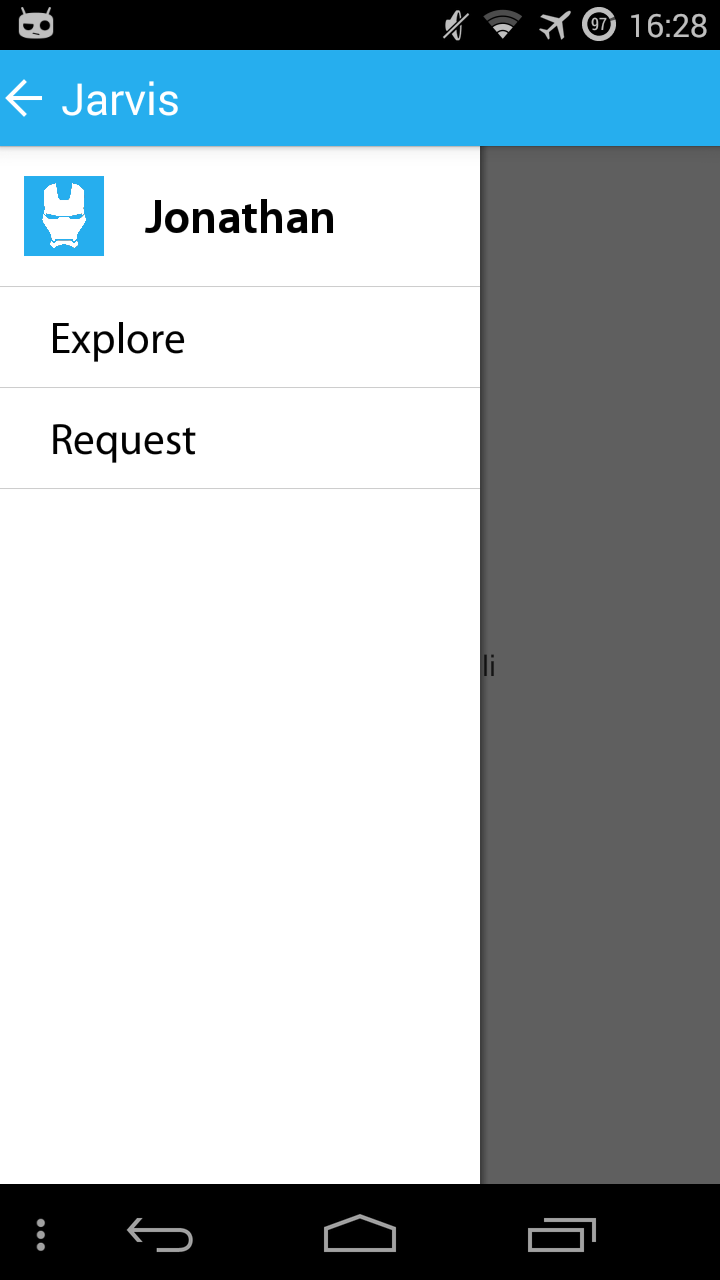
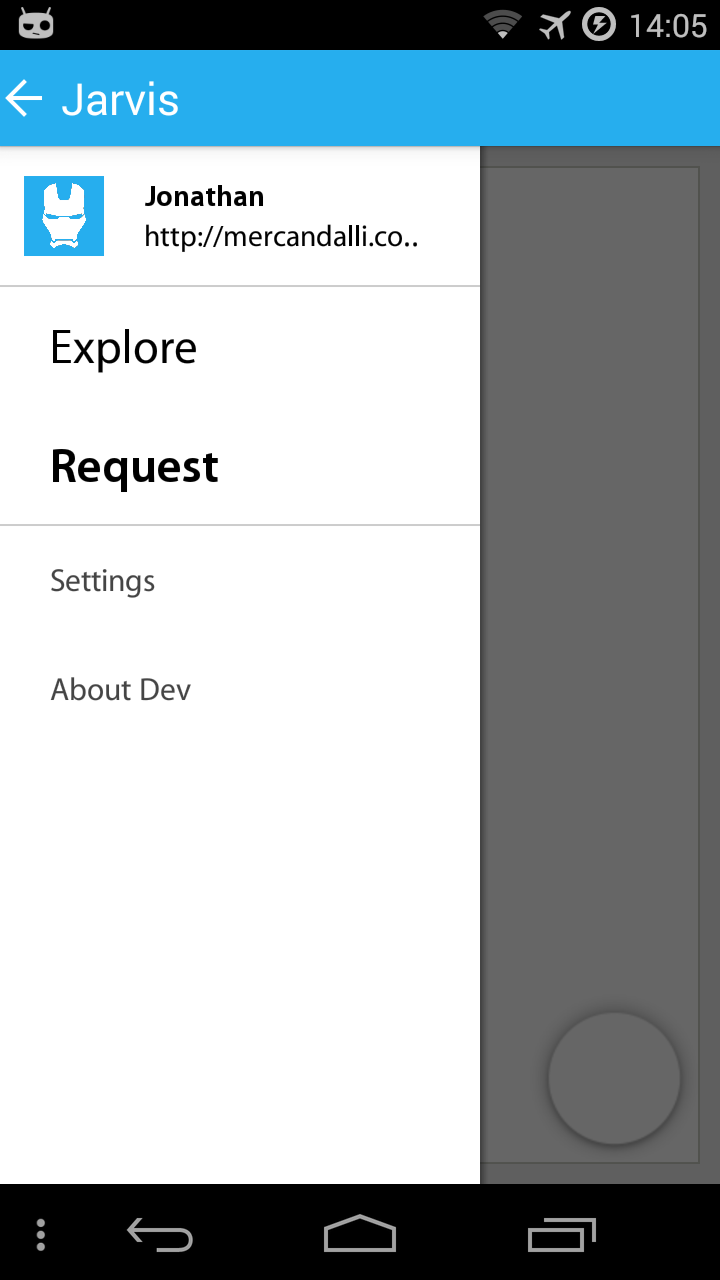
Update Drawer (sliding menu)

diff --git a/src/com/mercandalli/jarvis/ApplicationDrawer.java b/src/com/mercandalli/jarvis/ApplicationDrawer.java
@@ -29,9 +29,12 @@ import com.mercandalli.jarvis.navdrawer.NavDrawerListAdapter;
 
 public class ApplicationDrawer extends Application {	
 	
-	public static final int TYPE_IC 		= 0;
+	public static final int TYPE_PROFIL		= 0;
 	public static final int TYPE_NORMAL	 	= 1;
 	public static final int TYPE_SECTION	= 2;
+	public static final int TYPE_SETTING	= 3;
+	
+	public static final int[] noSelectable = new int[] {TYPE_PROFIL, TYPE_SECTION};
     
     Fragment fragment;
 
@@ -50,10 +53,15 @@ public class ApplicationDrawer extends Application {
         mDrawerLayout.setDrawerShadow(R.drawable.drawer_shadow, GravityCompat.START);
         navDrawerItems = new NavDrawerItemListe();
         
+        // Tab 0
+        navDrawerItems.add(
+        		new NavDrawerItem( config.getUserUsername(), config.getUrlServer(), R.drawable.ic_launcher, TYPE_PROFIL)
+        		);
+        
         // Tab 1
         navDrawerItems.add(
-        		new NavDrawerItem( config.getUserUsername(), R.drawable.ic_launcher, TYPE_IC)
-        		);        
+        		new NavDrawerItem( "", R.drawable.ic_launcher, TYPE_SECTION)
+        		);
      
         // Tab 2
         navDrawerItems.add(
@@ -79,10 +87,23 @@ public class ApplicationDrawer extends Application {
 			        }, TYPE_NORMAL)
         		);
         
+        // Tab 4
+        navDrawerItems.add(
+        		new NavDrawerItem( "", R.drawable.ic_launcher, TYPE_SECTION)
+        		);
+        
+        // Tab 5
+        navDrawerItems.add(
+        		new NavDrawerItem( "Settings", TYPE_SETTING)
+        		);
+        
+        // Tab 6
+        navDrawerItems.add(
+        		new NavDrawerItem( "About Dev", TYPE_SETTING)
+        		);
+        
         // Initial Fragment
-    	fragment = new FileManagerFragment(ApplicationDrawer.this);
-        FragmentManager fragmentManager = getFragmentManager();
-        fragmentManager.beginTransaction().replace(R.id.content_frame, fragment).commit();
+        selectItem(2);
         
         getActionBar().setDisplayHomeAsUpEnabled(true);
         getActionBar().setIcon(R.drawable.transparent);
@@ -105,12 +126,23 @@ public class ApplicationDrawer extends Application {
         mDrawerLayout.setDrawerListener(mDrawerToggle);
 	}
 	
-	private void selectItem(int position) {    	
-    	for(NavDrawerItem nav : navDrawerItems.getListe())
-    		if(navDrawerItems.get(position).equals(nav))
+	private void selectItem(int position) {		
+		for(NavDrawerItem nav : navDrawerItems.getListe())
+			if(navDrawerItems.get(position).equals(nav))
+				for(int i : noSelectable)
+					if(nav.SLIDING_MENU_TAB == i)
+						return;		
+    	for(NavDrawerItem nav : navDrawerItems.getListe()) {
+    		nav.isSelected = false;
+    		if(navDrawerItems.get(position).equals(nav)) {
+    			nav.isSelected = true;
     			if(nav.listenerClick!=null)
-    				nav.listenerClick.execute();    	
+    				nav.listenerClick.execute();
+    		}
+    	}
         mDrawerLayout.closeDrawer(mDrawerList);
+        mDrawerList.setAdapter(new NavDrawerListAdapter(this, navDrawerItems.getListe()));
+        mDrawerList.setOnItemClickListener(new DrawerItemClickListener());
     }
     
 	private class DrawerItemClickListener implements ListView.OnItemClickListener {

diff --git a/src/com/mercandalli/jarvis/navdrawer/NavDrawerListAdapter.java b/src/com/mercandalli/jarvis/navdrawer/NavDrawerListAdapter.java
@@ -58,13 +58,16 @@ public class NavDrawerListAdapter extends BaseAdapter {
 		NavDrawerItem item = navDrawerItems.get(position);
 		
 		switch(navDrawerItems.get(position).SLIDING_MENU_TAB) {
-		case ApplicationDrawer.TYPE_IC:
-			convertView = inflater.inflate(R.layout.tab_navdrawer_ic, parent, false);
+		case ApplicationDrawer.TYPE_PROFIL:
+			convertView = inflater.inflate(R.layout.tab_navdrawer_profil, parent, false);
 			
 			((TextView) convertView.findViewById(R.id.title)).setText(item.title);
 			Font.applyFont(context, ((TextView) convertView.findViewById(R.id.title)), "fonts/MYRIADAB.TTF");
 			
-			if(navDrawerItems.get(position).isImage)
+			((TextView) convertView.findViewById(R.id.subtitle)).setText(item.subtitle);
+			Font.applyFont(context, ((TextView) convertView.findViewById(R.id.subtitle)), "fonts/MYRIADAM.TTF");
+			
+			if(navDrawerItems.get(position).containsImage)
 				((ImageView) convertView.findViewById(R.id.icon)).setImageDrawable(context.getResources().getDrawable(item.icon));
 			else
 				((ImageView) convertView.findViewById(R.id.icon)).setVisibility(View.GONE);
@@ -75,13 +78,31 @@ public class NavDrawerListAdapter extends BaseAdapter {
 			convertView = inflater.inflate(R.layout.tab_navdrawer, parent, false);
 			
 			((TextView) convertView.findViewById(R.id.title)).setText(item.title);
-			Font.applyFont(context, ((TextView) convertView.findViewById(R.id.title)), "fonts/MYRIADAM.TTF");
+			if(item.isSelected)
+				Font.applyFont(context, ((TextView) convertView.findViewById(R.id.title)), "fonts/MYRIADAB.TTF");
+			else
+				Font.applyFont(context, ((TextView) convertView.findViewById(R.id.title)), "fonts/MYRIADAM.TTF");
 			
 			if(navDrawerItems.get(position).onCheckedChangeListener!=null) {
 				((ToggleButton) convertView.findViewById(R.id.toggle)).setVisibility(View.VISIBLE);
 				((ToggleButton) convertView.findViewById(R.id.toggle)).setChecked(item.initChecked);
 				((ToggleButton) convertView.findViewById(R.id.toggle)).setOnCheckedChangeListener(item.onCheckedChangeListener);
 			}
+			
+			break;
+			
+		case ApplicationDrawer.TYPE_SECTION:
+			convertView = inflater.inflate(R.layout.tab_navdrawer_section, parent, false);
+			break;
+			
+		case ApplicationDrawer.TYPE_SETTING:
+			convertView = inflater.inflate(R.layout.tab_navdrawer_setting, parent, false);
+			
+			((TextView) convertView.findViewById(R.id.title)).setText(item.title);
+			if(item.isSelected)
+				Font.applyFont(context, ((TextView) convertView.findViewById(R.id.title)), "fonts/MYRIADAB.TTF");
+			else
+				Font.applyFont(context, ((TextView) convertView.findViewById(R.id.title)), "fonts/MYRIADAM.TTF");			
 			
 			break;		
 		}

diff --git a/src/com/mercandalli/jarvis/navdrawer/NavDrawerItem.java b/src/com/mercandalli/jarvis/navdrawer/NavDrawerItem.java
@@ -17,9 +17,11 @@ import android.widget.CompoundButton.OnCheckedChangeListener;
  */
 public class NavDrawerItem {	
 	public String title;
+	public String subtitle;
 	public int icon;
 	public int SLIDING_MENU_TAB;
-	public boolean isImage;
+	public boolean containsImage;
+	public boolean isSelected = false;
 	public IListener listenerClick = null;
 	
 	public boolean initChecked = false;
@@ -30,7 +32,16 @@ public class NavDrawerItem {
 		this.title = title;
 		this.icon = icon;
 		this.SLIDING_MENU_TAB = SLIDING_MENU_TAB;
-		this.isImage = true;
+		this.containsImage = true;
+	}
+	
+	public NavDrawerItem(String title, String subtitle, int icon, int SLIDING_MENU_TAB) {
+		super();
+		this.title = title;
+		this.subtitle = subtitle;
+		this.icon = icon;
+		this.SLIDING_MENU_TAB = SLIDING_MENU_TAB;
+		this.containsImage = true;
 	}
 	
 	public NavDrawerItem(String title, int icon, IListener listenerClick, int SLIDING_MENU_TAB) {
@@ -38,7 +49,7 @@ public class NavDrawerItem {
 		this.title = title;
 		this.icon = icon;
 		this.SLIDING_MENU_TAB = SLIDING_MENU_TAB;
-		this.isImage = true;
+		this.containsImage = true;
 		this.listenerClick = listenerClick;
 	}
 	
@@ -48,21 +59,21 @@ public class NavDrawerItem {
 		this.SLIDING_MENU_TAB = SLIDING_MENU_TAB;
 		this.initChecked = initChecked;
 		this.onCheckedChangeListener = onCheckedChangeListener;		
-		this.isImage = false;
+		this.containsImage = false;
 	}
 	
 	public NavDrawerItem(String title, int SLIDING_MENU_TAB) {
 		super();
 		this.title = title;
 		this.SLIDING_MENU_TAB = SLIDING_MENU_TAB;
-		this.isImage = false;
+		this.containsImage = false;
 	}
 	
 	public NavDrawerItem(String title, IListener listenerClick, int SLIDING_MENU_TAB) {
 		super();
 		this.title = title;
 		this.SLIDING_MENU_TAB = SLIDING_MENU_TAB;
-		this.isImage = false;
+		this.containsImage = false;
 		this.listenerClick = listenerClick;
 	}
 	
